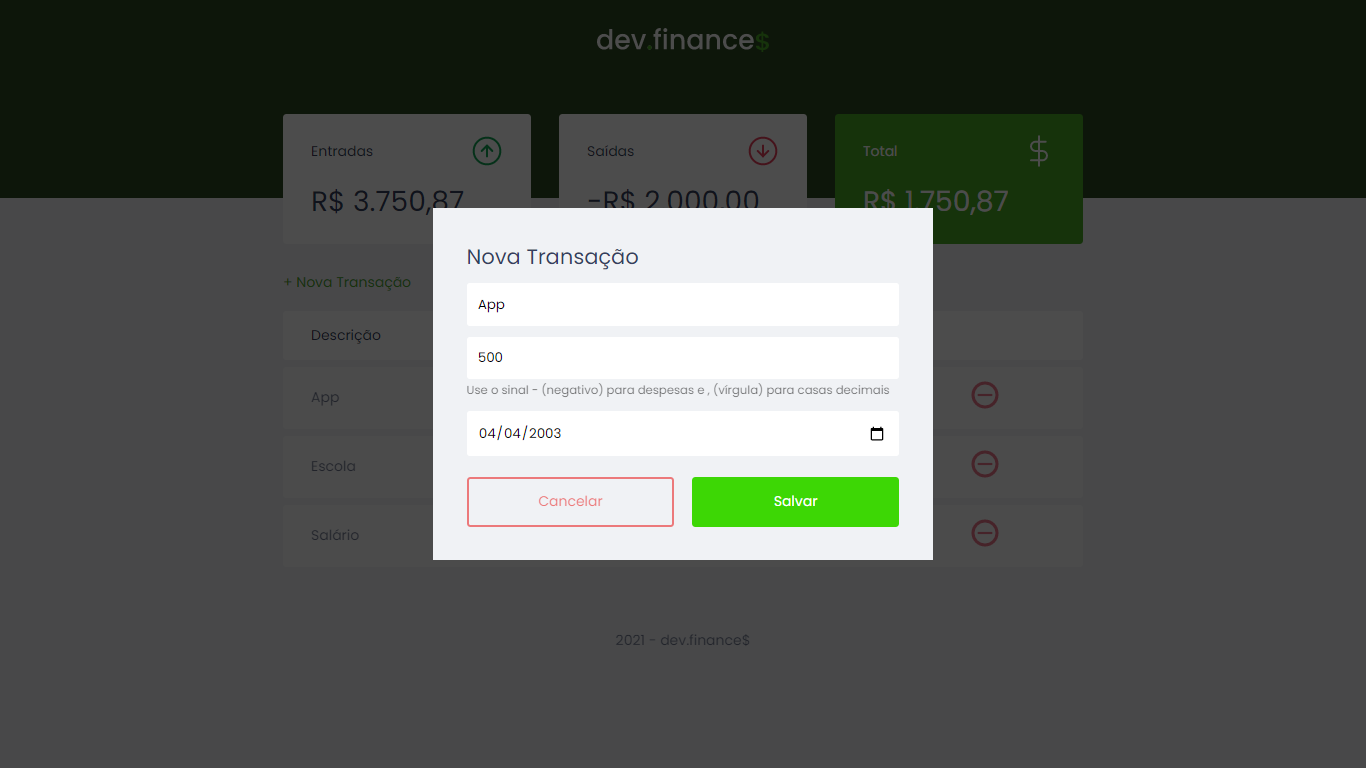
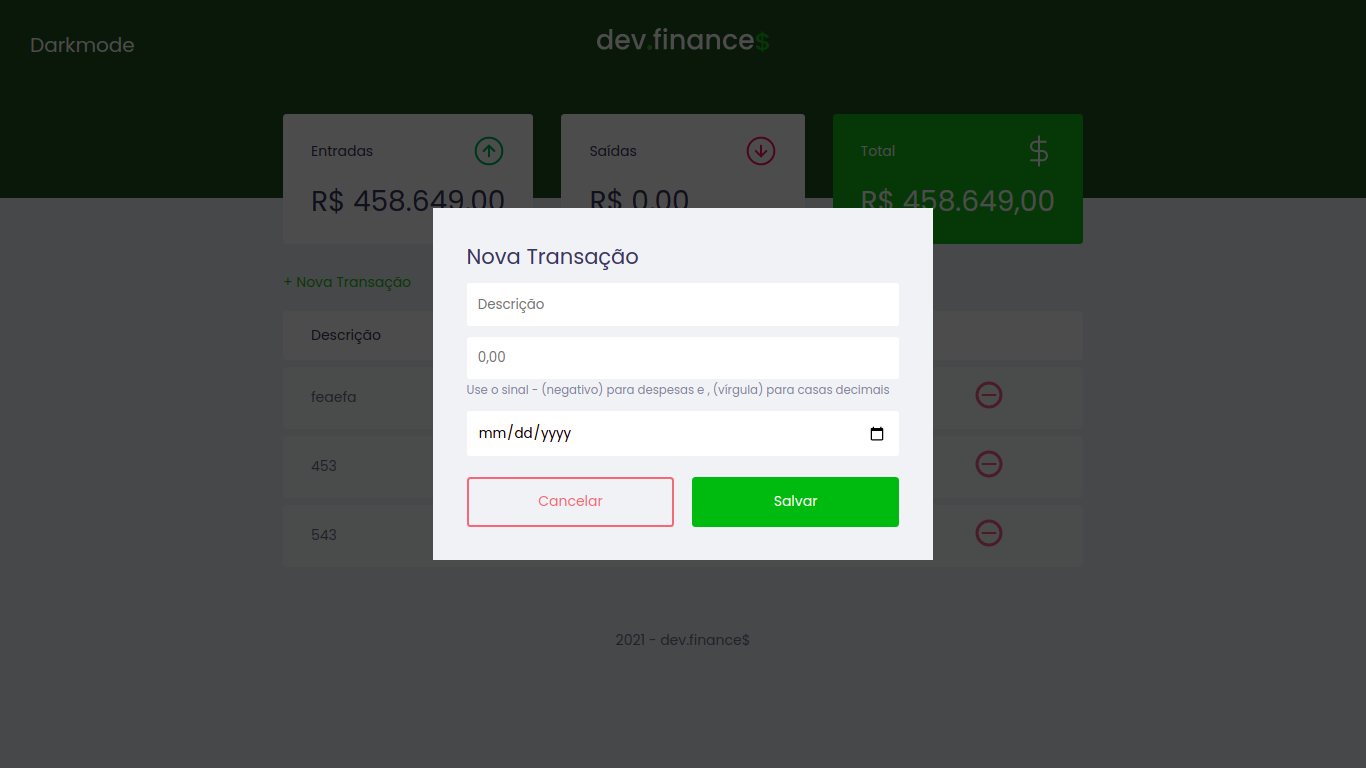
README and .github folder changes

diff --git a/README.md b/README.md
@@ -16,7 +16,7 @@
 
 ## About The Project
 
-![Dev finances](.github/negative-total.png)
+![Dev finances](.github/dashboard-dark.png)
 
 A responsive website, in which you can control incomes and expenses visually.
 
@@ -36,7 +36,12 @@ A responsive website, in which you can control incomes and expenses visually.
 ## Usage
 
 <p float="left">
-  <img src=".github/dev-finances.png" width="390" />
+  <img src=".github/dashboard-dark.png" width="390" />
+  <img src=".github/dashboard.png" width="390" /> 
+</p>
+
+<p float="left">
+  <img src=".github/modal-dark.png" width="390" />
   <img src=".github/modal.png" width="390" /> 
 </p>
 
